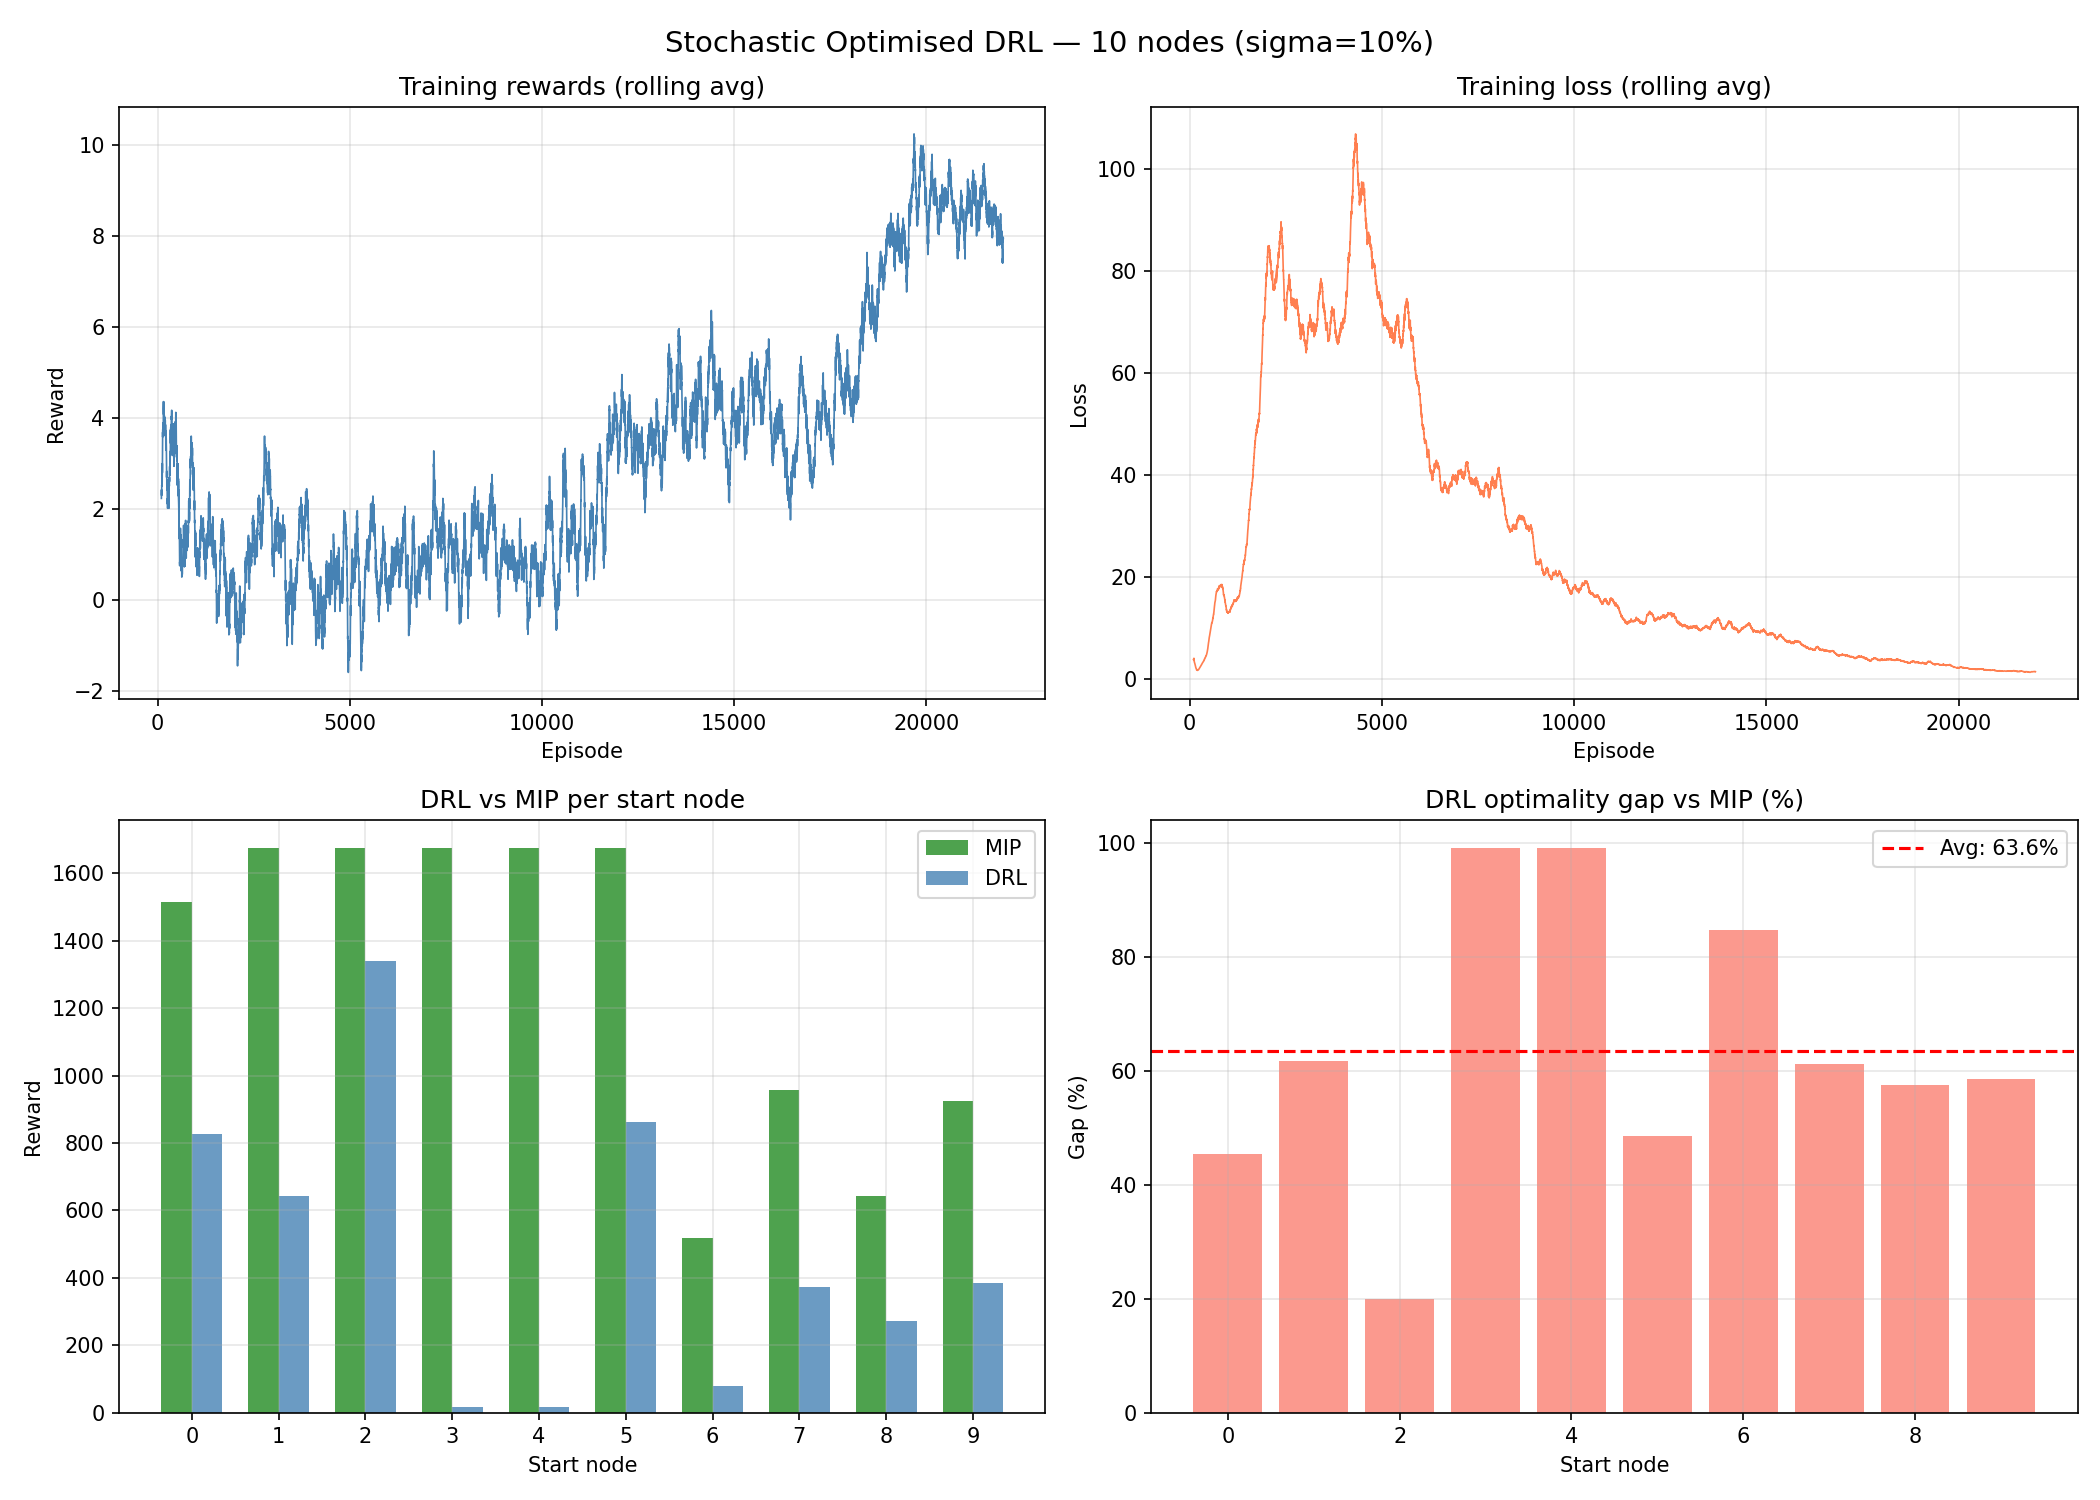
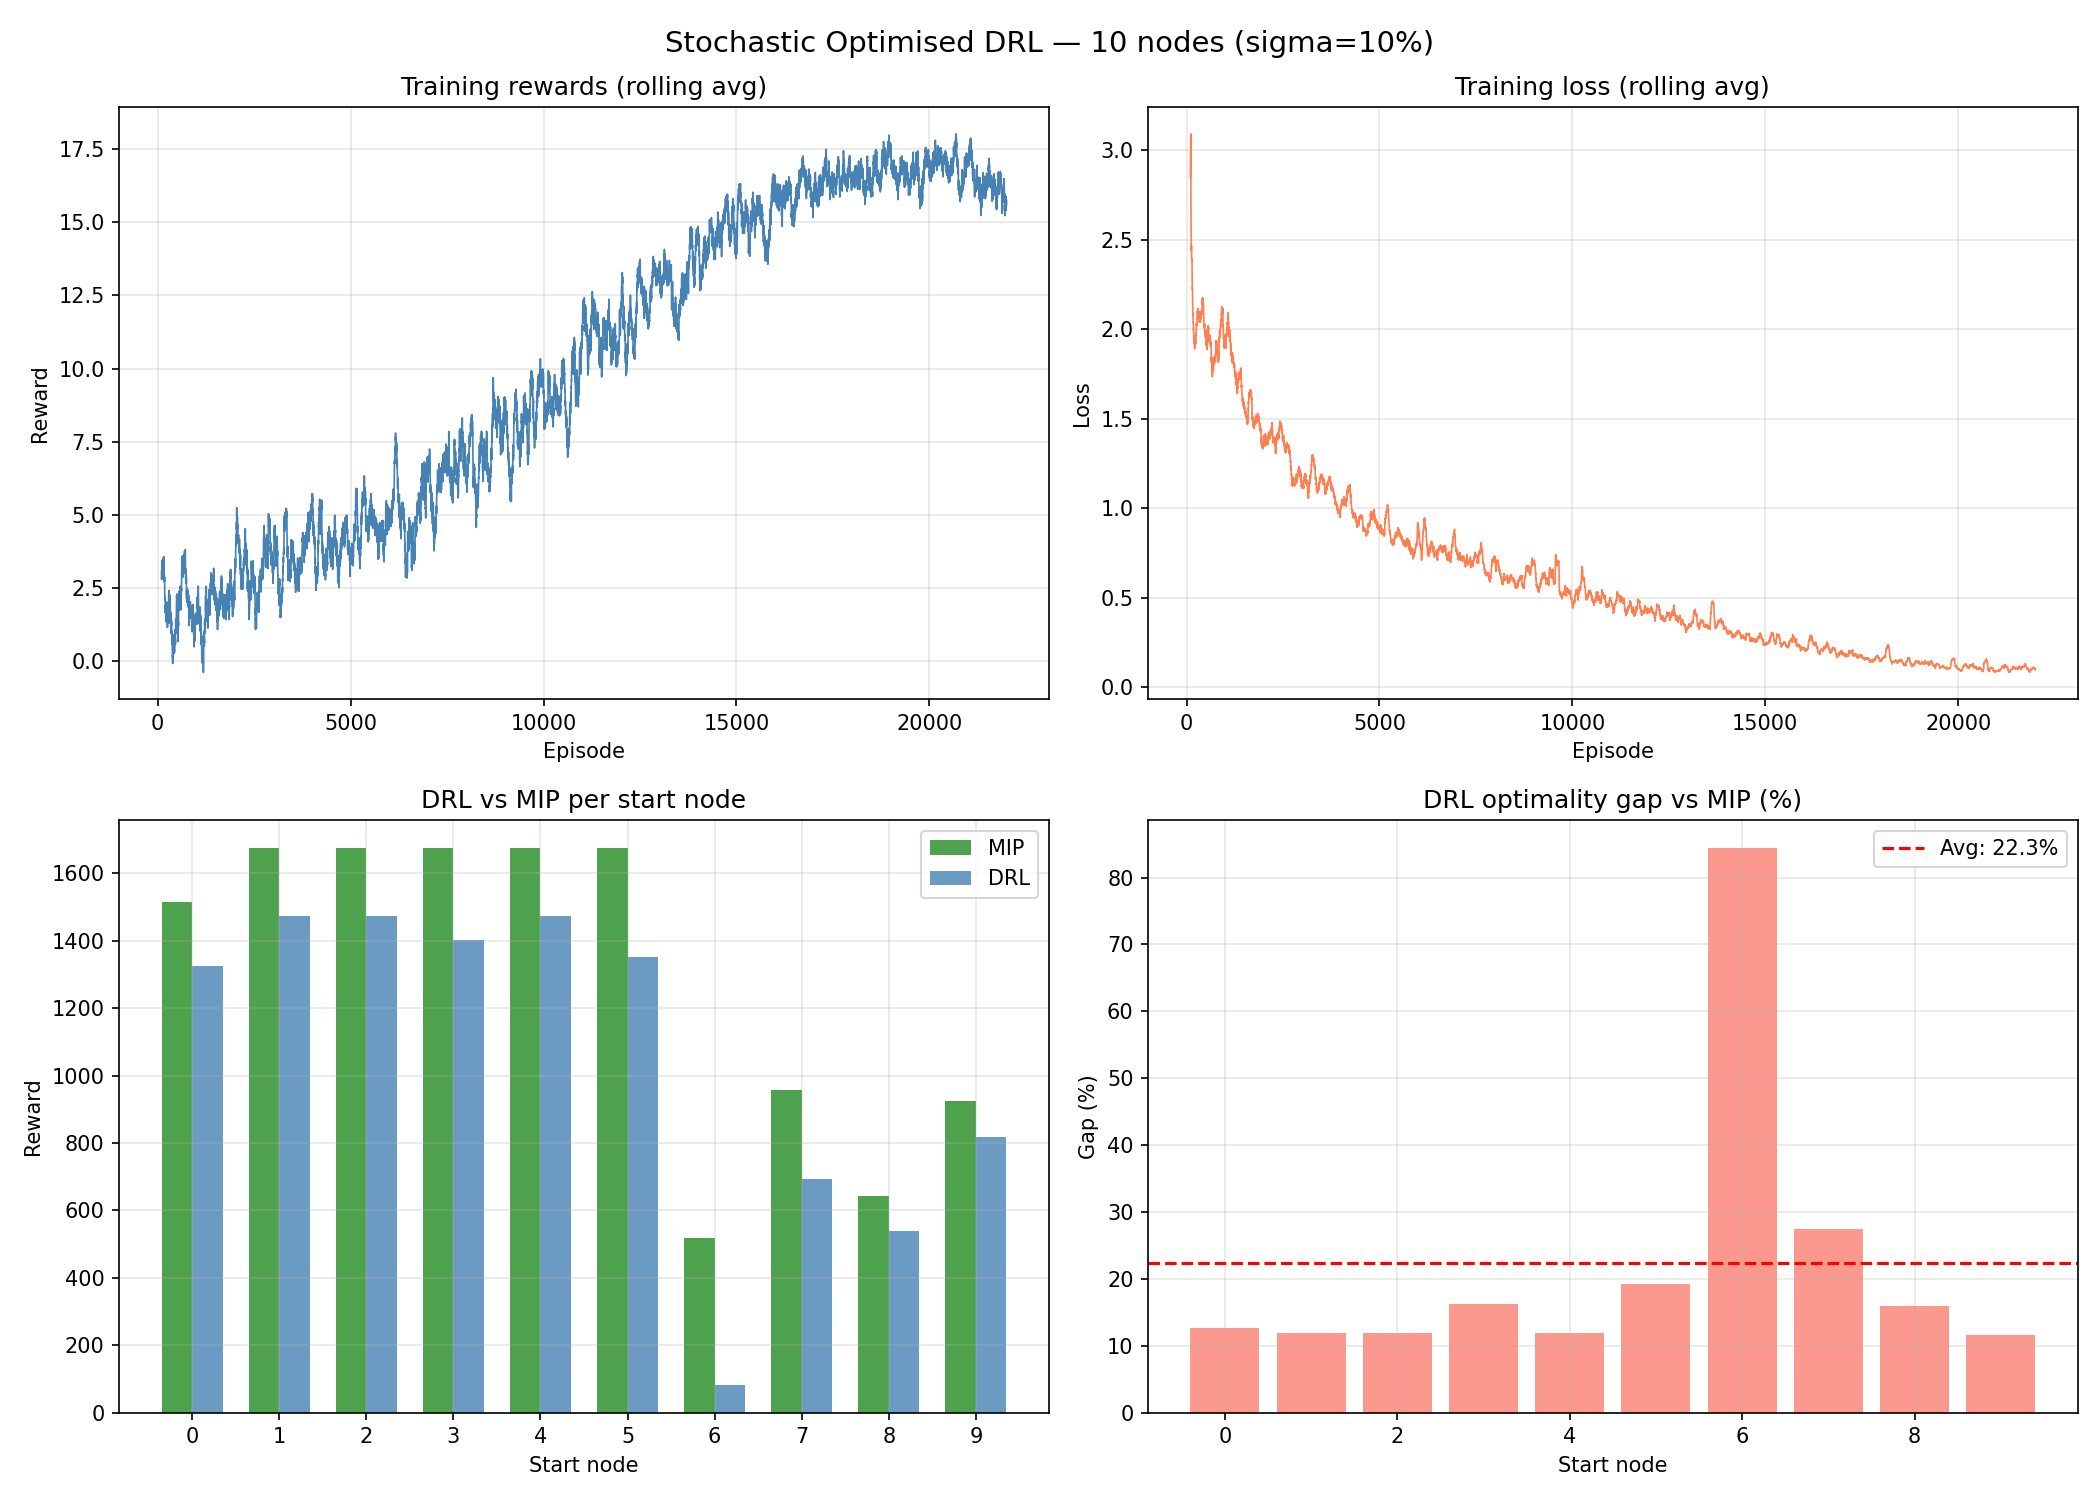
Refactor routing model to Gymnasium API

diff --git a/problem_data.py b/problem_data.py
@@ -50,7 +50,6 @@ def load_matrices(num_nodes: int):
 
     rate_matrix     = pd.read_csv(os.path.join(cwd, f"rate_q2_{REGION}_{TRUCK_TYPE}{DATE_SUFFIX}.csv"),    header=None)
     time_matrix_raw = pd.read_csv(os.path.join(cwd, f"duration_{REGION}.csv"),                            header=None)
-    markov_matrix   = pd.read_csv(os.path.join(cwd, f"prob_{REGION}_{TRUCK_TYPE}{DATE_SUFFIX}.csv"),      header=None)
     loads_matrix    = pd.read_csv(os.path.join(cwd, f"load_av_{REGION}_{TRUCK_TYPE}{DATE_SUFFIX}.csv"),   header=None)
     distance_matrix = pd.read_csv(os.path.join(cwd, f"distance_{REGION}.csv"),                            header=None)
     diesel_matrix   = pd.read_csv(os.path.join(cwd, f"diesel_{REGION}{DATE_SUFFIX}.csv"),                 header=None)

diff --git a/tuning.py b/tuning.py
@@ -36,12 +36,12 @@ from routing_env import RoutingEnv
 def _get_optuna_episodes(num_nodes: int) -> int:
     """Número de episodios de entrenamiento por trial según el tamaño del grafo."""
     if num_nodes <= 10:
-        return 5000
+        return 50 #luego cambiar a 5000
     if num_nodes <= 15:
-        return 5500
+        return 55 #luego cambiar a 5500
     if num_nodes <= 20:
-        return 6000
-    return 7500
+        return 60 #luego cambiar a 6000
+    return 75 #luego cambiar a 7500
 
 
 def _mask_to_invalid(action_mask: np.ndarray) -> set:
